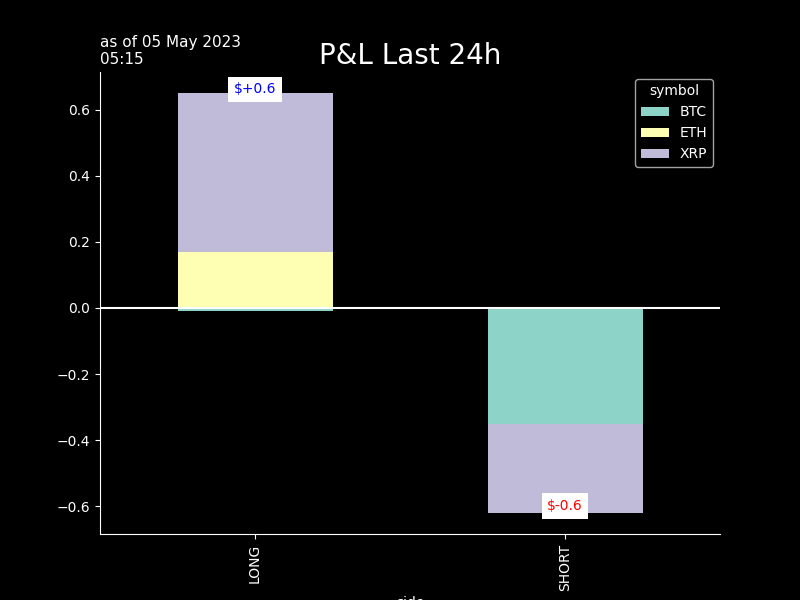
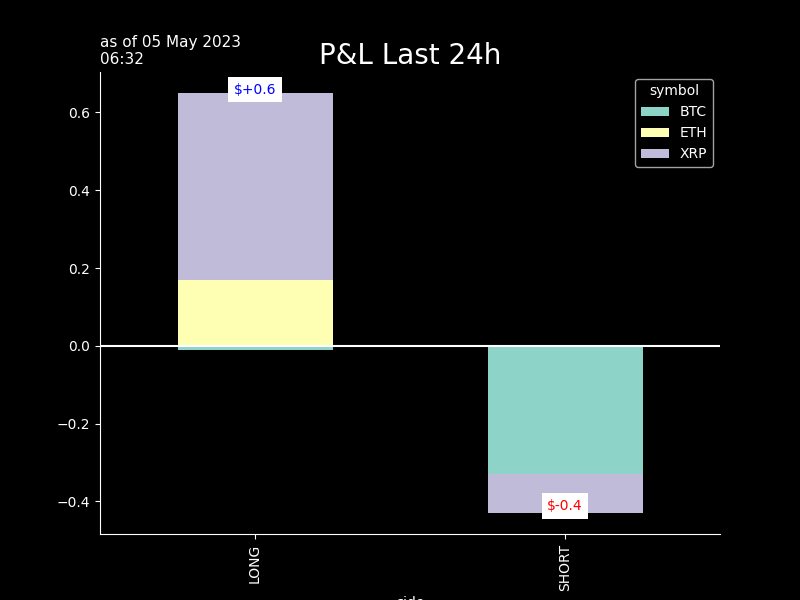
seb_commit

diff --git a/crypto/graphs/bt_trades_book.htmltrade_trades_book.html b/crypto/graphs/bt_trades_book.htmltrade_trades_book.html
@@ -37,38 +37,38 @@
   </thead>
   <tbody>
     <tr>
-      <th>XRPUSDT</th>
-      <td>0.46415</td>
-      <td>2023-05-05 04:14:53.500</td>
-      <td>-160.000</td>
-      <td>$-74.3</td>
+      <th>BTCUSDT</th>
+      <td>29194.0000</td>
+      <td>2023-05-05 05:27:49</td>
+      <td>0.001</td>
+      <td>$29.2</td>
       <td>$0.01</td>
       <td>2.0</td>
       <td>0.0</td>
-      <td>0.46405</td>
-      <td>2023-05-05 05:12</td>
-      <td>0.0</td>
-      <td>3.0</td>
-      <td>.4642</td>
+      <td>29170.65000</td>
+      <td>2023-05-05 06:25</td>
       <td>-0.0</td>
-      <td>-1.0</td>
+      <td>-7.0</td>
+      <td>29187.4</td>
+      <td>-0.0</td>
+      <td>-3.0</td>
     </tr>
     <tr>
-      <th>BTCUSDT</th>
-      <td>29210.05000</td>
-      <td>2023-05-05 04:14:31.000</td>
-      <td>-0.002</td>
-      <td>$-58.4</td>
+      <th>XRPUSDT</th>
+      <td>0.4621</td>
+      <td>2023-05-05 05:32:04</td>
+      <td>80.000</td>
+      <td>$37.0</td>
       <td>$0.01</td>
       <td>2.0</td>
-      <td>0.0</td>
-      <td>29212.15000</td>
-      <td>2023-05-05 05:12</td>
+      <td>0.2</td>
+      <td>0.46155</td>
+      <td>2023-05-05 06:25</td>
       <td>-0.0</td>
+      <td>-11.0</td>
+      <td>.462</td>
       <td>-0.0</td>
-      <td>29210.1</td>
-      <td>-0.0</td>
-      <td>-0.0</td>
+      <td>-3.0</td>
     </tr>
   </tbody>
 </table>

diff --git a/crypto/graphs/bt_trades_recap.htmltrade_trades_recap.html b/crypto/graphs/bt_trades_recap.htmltrade_trades_recap.html
@@ -9,32 +9,32 @@
   <tbody>
     <tr>
       <th>as of</th>
-      <td>05May 04:14&gt;&gt;04:15</td>
+      <td>05May 05:27&gt;&gt;05:32</td>
       <td>#trades: 2</td>
     </tr>
     <tr>
       <th>trade net</th>
-      <td>-133.0</td>
-      <td>-45.1%</td>
+      <td>+66.0</td>
+      <td>+22.4%</td>
     </tr>
     <tr>
       <th>trade gross</th>
-      <td>+133.0</td>
-      <td>+45.1%</td>
+      <td>+66.0</td>
+      <td>+22.4%</td>
     </tr>
     <tr>
       <th>BUY</th>
+      <td>+66.0</td>
+      <td>+22.4%</td>
+    </tr>
+    <tr>
+      <th>SELL</th>
       <td>+0.0</td>
       <td>+0.0%</td>
     </tr>
     <tr>
-      <th>SELL</th>
-      <td>-133.0</td>
-      <td>-45.1%</td>
-    </tr>
-    <tr>
       <th>fees</th>
-      <td>$ 0.027</td>
+      <td>$ 0.013</td>
       <td>2.0bp</td>
     </tr>
   </tbody>

diff --git a/crypto/graphs/bt_trades_pnlD_recap.htmltrade_trades_pnlD_recap.html b/crypto/graphs/bt_trades_pnlD_recap.htmltrade_trades_pnlD_recap.html
@@ -1,7 +1,7 @@
 <table border="1" class="dataframe">
   <thead>
     <tr style="text-align: right;">
-      <th>05 May 05:15</th>
+      <th>05 May 06:32</th>
       <th>realizedPnl</th>
       <th>PnLvsArrival</th>
       <th>PnLvsLast</th>
@@ -10,21 +10,21 @@
   <tbody>
     <tr>
       <th>in$</th>
-      <td>0.0</td>
-      <td>0.0</td>
+      <td>0.2</td>
+      <td>-0.1</td>
       <td>-0.0</td>
     </tr>
     <tr>
-      <th>in bp 132 traded</th>
-      <td>2 bp</td>
-      <td>2 bp</td>
-      <td>-1 bp</td>
+      <th>in bp 66 traded</th>
+      <td>29 bp</td>
+      <td>-9 bp</td>
+      <td>-3 bp</td>
     </tr>
     <tr>
       <th>in bp 294 AUMs</th>
-      <td>1 bp</td>
-      <td>1 bp</td>
-      <td>-0 bp</td>
+      <td>6 bp</td>
+      <td>-2 bp</td>
+      <td>-1 bp</td>
     </tr>
   </tbody>
 </table>
